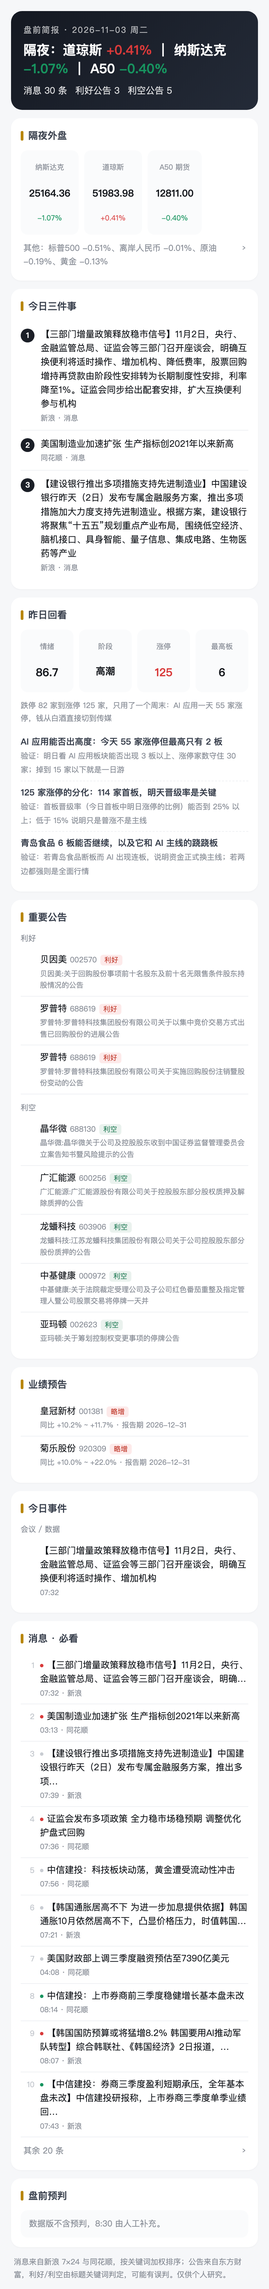
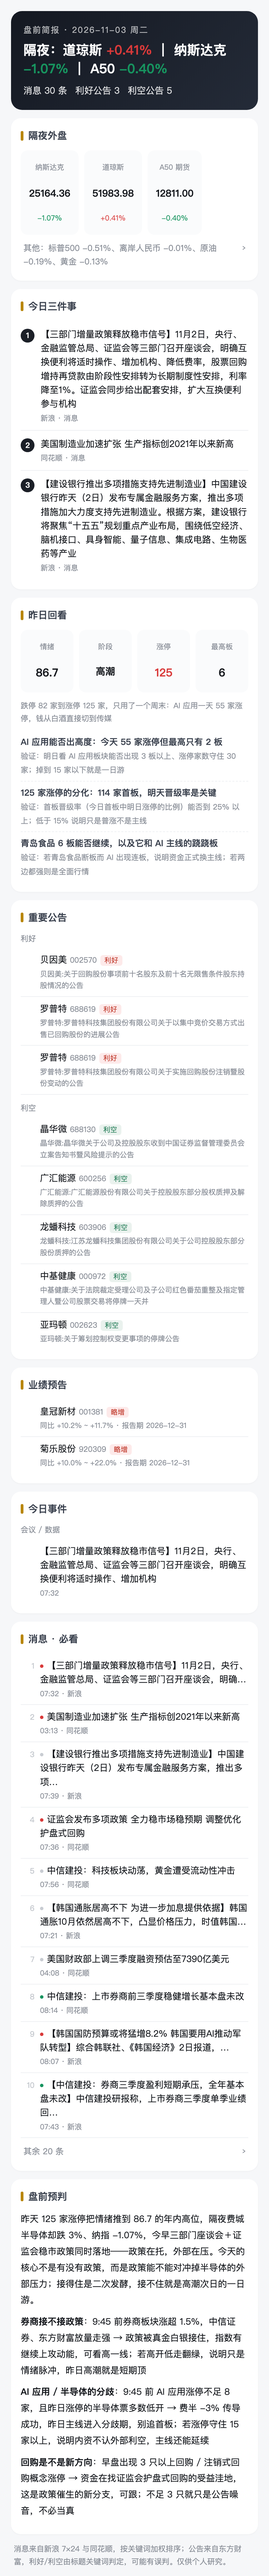
report: 2026-11-02

Changed region(s): [[0.0308, 0.0, 0.9538, 1.0]]

diff --git a/pre/2026-11-03/2026-11-03-盘前.html b/pre/2026-11-03/2026-11-03-盘前.html
@@ -50,4 +50,4 @@ details.more[open]>summary .arw{transform:rotate(90deg)}
 display:flex;align-items:center;justify-content:center;font-weight:700;margin-top:2px}
 .t3 .t{font-size:13px;line-height:1.55;flex:1}
 .t3 .s{font-size:10.5px;color:#8a8f98;margin-top:2px}
-</style><link rel="manifest" href="/a-share-review/manifest.webmanifest"><meta name="theme-color" content="#1b1f27"><meta name="apple-mobile-web-app-capable" content="yes"><meta name="apple-mobile-web-app-status-bar-style" content="black-translucent"><meta name="apple-mobile-web-app-title" content="A股复盘"><link rel="apple-touch-icon" href="/a-share-review/icon-192.png"></head><body><div class="wrap"><div class="hero"><div class="d">盘前简报 · 2026-11-03 周二</div><h1>隔夜：道琼斯 <b class="up">+0.41%</b> ｜ 纳斯达克 <b class="down">-1.07%</b> ｜ A50 <b class="down">-0.40%</b></h1><div class="sum"><span>消息 30 条</span><span>利好公告 3</span><span>利空公告 5</span></div></div><div class="card"><h2>隔夜外盘</h2><div class="ov"><div><div class="n">纳斯达克</div><div class="v">25164.36</div><div class="p down">-1.07%</div></div><div><div class="n">道琼斯</div><div class="v">51983.98</div><div class="p up">+0.41%</div></div><div><div class="n">A50 期货</div><div class="v">12811.00</div><div class="p down">-0.40%</div></div></div><details class="more"><summary><span>其他：标普500 -0.51%、离岸人民币 -0.01%、原油 -0.19%、黄金 -0.13%</span><span class="arw">›</span></summary><div class="ov" style="margin-top:8px"><div><div class="n">标普500</div><div class="v">7541.40</div><div class="p down">-0.51%</div></div><div><div class="n">离岸人民币</div><div class="v">6.65</div><div class="p down">-0.01%</div></div><div><div class="n">原油</div><div class="v">96.27</div><div class="p down">-0.19%</div></div><div><div class="n">黄金</div><div class="v">3964.51</div><div class="p down">-0.13%</div></div></div></details></div><div class="card"><h2>今日三件事</h2><div class="t3"><div class="n">1</div><div><div class="t">【三部门增量政策释放稳市信号】11月2日，央行、金融监管总局、证监会等三部门召开座谈会，明确互换便利将适时操作、增加机构、降低费率，股票回购增持再贷款由阶段性安排转为长期制度性安排，利率降至1%。证监会同步给出配套安排，扩大互换便利参与机构</div><div class="s">新浪 · 消息</div></div></div><div class="t3"><div class="n">2</div><div><div class="t">美国制造业加速扩张 生产指标创2021年以来新高</div><div class="s">同花顺 · 消息</div></div></div><div class="t3"><div class="n">3</div><div><div class="t">【建设银行推出多项措施支持先进制造业】中国建设银行昨天（2日）发布专属金融服务方案，推出多项措施加大力度支持先进制造业。根据方案，建设银行将聚焦“十五五”规划重点产业布局，围绕低空经济、脑机接口、具身智能、量子信息、集成电路、生物医药等产业</div><div class="s">新浪 · 消息</div></div></div></div><div class="card"><h2>昨日回看</h2><div class="kv"><div><div class="n">情绪</div><div class="v">86.7</div></div><div><div class="n">阶段</div><div class="v" style="font-size:14px">高潮</div></div><div><div class="n">涨停</div><div class="v up">125</div></div><div><div class="n">最高板</div><div class="v">6</div></div></div><div class="note" style="margin-bottom:8px">跌停 82 家到涨停 125 家，只用了一个周末：AI 应用一天 55 家涨停，钱从白酒直接切到传媒</div><div class="watch"><b>AI 应用能否出高度：今天 55 家涨停但最高只有 2 板</b><br><span class="note">验证：明日看 AI 应用板块能否出现 3 板以上、涨停家数守住 30 家；掉到 15 家以下就是一日游</span></div><div class="watch"><b>125 家涨停的分化：114 家首板，明天晋级率是关键</b><br><span class="note">验证：首板晋级率（今日首板中明日涨停的比例）能否到 25% 以上；低于 15% 说明只是普涨不是主线</span></div><div class="watch"><b>青岛食品 6 板能否继续，以及它和 AI 主线的跷跷板</b><br><span class="note">验证：若青岛食品断板而 AI 出现连板，说明资金正式换主线；若两边都强则是全面行情</span></div></div><div class="card"><h2>重要公告</h2><div class="note" style="margin-bottom:4px">利好</div><div class="item"><div class="no"></div><div class="b"><div class="t">贝因美 <span class="mut" style="font-size:11px">002570</span><span class="tag tag-good">利好</span></div><div class="m">贝因美:关于回购股份事项前十名股东及前十名无限售条件股东持股情况的公告</div></div></div><div class="item"><div class="no"></div><div class="b"><div class="t">罗普特 <span class="mut" style="font-size:11px">688619</span><span class="tag tag-good">利好</span></div><div class="m">罗普特:罗普特科技集团股份有限公司关于以集中竞价交易方式出售已回购股份的进展公告</div></div></div><div class="item"><div class="no"></div><div class="b"><div class="t">罗普特 <span class="mut" style="font-size:11px">688619</span><span class="tag tag-good">利好</span></div><div class="m">罗普特:罗普特科技集团股份有限公司关于实施回购股份注销暨股份变动的公告</div></div></div><div class="note" style="margin:10px 0 4px">利空</div><div class="item"><div class="no"></div><div class="b"><div class="t">晶华微 <span class="mut" style="font-size:11px">688130</span><span class="tag tag-bad">利空</span></div><div class="m">晶华微:晶华微关于公司及控股股东收到中国证券监督管理委员会立案告知书暨风险提示的公告</div></div></div><div class="item"><div class="no"></div><div class="b"><div class="t">广汇能源 <span class="mut" style="font-size:11px">600256</span><span class="tag tag-bad">利空</span></div><div class="m">广汇能源:广汇能源股份有限公司关于控股股东部分股权质押及解除质押的公告</div></div></div><div class="item"><div class="no"></div><div class="b"><div class="t">龙蟠科技 <span class="mut" style="font-size:11px">603906</span><span class="tag tag-bad">利空</span></div><div class="m">龙蟠科技:江苏龙蟠科技集团股份有限公司关于公司控股股东部分股份质押的公告</div></div></div><div class="item"><div class="no"></div><div class="b"><div class="t">中基健康 <span class="mut" style="font-size:11px">000972</span><span class="tag tag-bad">利空</span></div><div class="m">中基健康:关于法院裁定受理公司及子公司红色番茄重整及指定管理人暨公司股票交易将停牌一天并</div></div></div><div class="item"><div class="no"></div><div class="b"><div class="t">亚玛顿 <span class="mut" style="font-size:11px">002623</span><span class="tag tag-bad">利空</span></div><div class="m">亚玛顿:关于筹划控制权变更事项的停牌公告</div></div></div></div><div class="card"><h2>业绩预告</h2><div class="item"><div class="no"></div><div class="b"><div class="t">皇冠新材 <span class="mut" style="font-size:11px">001381</span><span class="tag tag-good">略增</span></div><div class="m">同比 +10.2% ~ +11.7% · 报告期 2026-12-31</div></div></div><div class="item"><div class="no"></div><div class="b"><div class="t">菊乐股份 <span class="mut" style="font-size:11px">920309</span><span class="tag tag-good">略增</span></div><div class="m">同比 +10.0% ~ +22.0% · 报告期 2026-12-31</div></div></div></div><div class="card"><h2>今日事件</h2><div class="note" style="margin:10px 0 4px">会议 / 数据</div><div class="item"><div class="no"></div><div class="b"><div class="t">【三部门增量政策释放稳市信号】11月2日，央行、金融监管总局、证监会等三部门召开座谈会，明确互换便利将适时操作、增加机构</div><div class="m">07:32</div></div></div></div><div class="card"><h2>消息 · 必看</h2><div class="item"><div class="no">1</div><div class="b"><div class="t"><span class="dot g"></span>【三部门增量政策释放稳市信号】11月2日，央行、金融监管总局、证监会等三部门召开座谈会，明确…</div><div class="m">07:32 · 新浪</div></div></div><div class="item"><div class="no">2</div><div class="b"><div class="t"><span class="dot g"></span>美国制造业加速扩张 生产指标创2021年以来新高</div><div class="m">03:13 · 同花顺</div></div></div><div class="item"><div class="no">3</div><div class="b"><div class="t"><span class="dot n"></span>【建设银行推出多项措施支持先进制造业】中国建设银行昨天（2日）发布专属金融服务方案，推出多项…</div><div class="m">07:39 · 新浪</div></div></div><div class="item"><div class="no">4</div><div class="b"><div class="t"><span class="dot g"></span>证监会发布多项政策 全力稳市场稳预期 调整优化护盘式回购</div><div class="m">07:36 · 同花顺</div></div></div><div class="item"><div class="no">5</div><div class="b"><div class="t"><span class="dot n"></span>中信建投：科技板块动荡，黄金遭受流动性冲击</div><div class="m">07:56 · 同花顺</div></div></div><div class="item"><div class="no">6</div><div class="b"><div class="t"><span class="dot n"></span>【韩国通胀居高不下 为进一步加息提供依据】韩国通胀10月依然居高不下，凸显价格压力，时值韩国…</div><div class="m">07:21 · 新浪</div></div></div><div class="item"><div class="no">7</div><div class="b"><div class="t"><span class="dot n"></span>美国财政部上调三季度融资预估至7390亿美元</div><div class="m">04:08 · 同花顺</div></div></div><div class="item"><div class="no">8</div><div class="b"><div class="t"><span class="dot b2"></span>中信建投：上市券商前三季度稳健增长基本盘未改</div><div class="m">08:14 · 同花顺</div></div></div><div class="item"><div class="no">9</div><div class="b"><div class="t"><span class="dot g"></span>【韩国国防预算或将猛增8.2% 韩国要用AI推动军队转型】综合韩联社、《韩国经济》2日报道，…</div><div class="m">08:07 · 新浪</div></div></div><div class="item"><div class="no">10</div><div class="b"><div class="t"><span class="dot b2"></span>【中信建投：券商三季度盈利短期承压，全年基本盘未改】中信建投研报称，上市券商三季度单季业绩回…</div><div class="m">07:43 · 新浪</div></div></div><details class="more"><summary><span>其余 20 条</span><span class="arw">›</span></summary><div class="item"><div class="no">11</div><div class="b"><div class="t"><span class="dot g"></span>【机构称市场处于反弹孕育期 业绩确定性成配置主线】上周，A股延续震荡走弱态势，算力硬件、半导…</div><div class="m">07:40 · 新浪</div></div></div><div class="item"><div class="no">12</div><div class="b"><div class="t"><span class="dot g"></span>【中信建投：AI需求高景气驱动功率半导体迈向新周期】中信建投研报称，AIDC爆发+新能源车增…</div><div class="m">07:39 · 新浪</div></div></div><div class="item"><div class="no">13</div><div class="b"><div class="t"><span class="dot g"></span>【亿咖通科技与Arm签署合作备忘录】11月2日晚，亿咖通科技控股宣布与Arm签署非约束性合作…</div><div class="m">07:20 · 新浪</div></div></div><div class="item"><div class="no">14</div><div class="b"><div class="t"><span class="dot g"></span>亿咖通科技与Arm签署合作备忘录</div><div class="m">07:18 · 同花顺</div></div></div><div class="item"><div class="no">15</div><div class="b"><div class="t"><span class="dot g"></span>腾讯与万事达卡签署合作备忘录，合作拓展至智能体商业领域</div><div class="m">07:15 · 同花顺</div></div></div><div class="item"><div class="no">16</div><div class="b"><div class="t"><span class="dot n"></span>美股收评：纳指收跌超1% 费城半导体指数跌超3%</div><div class="m">05:01 · 同花顺</div></div></div><div class="item"><div class="no">17</div><div class="b"><div class="t"><span class="dot n"></span>纳斯达克100指数跌幅扩大至1.3%，美股盘初一度上涨将近1.3%</div><div class="m">04:38 · 同花顺</div></div></div><div class="item"><div class="no">18</div><div class="b"><div class="t"><span class="dot n"></span>费城半导体指数日内跌3%</div><div class="m">03:48 · 同花顺</div></div></div><div class="item"><div class="no">19</div><div class="b"><div class="t"><span class="dot g"></span>【114家公司10月以来披露在手订单充裕 9家公司同步推出回购计划】进入10月份以来，受A股…</div><div class="m">07:58 · 新浪</div></div></div><div class="item"><div class="no">20</div><div class="b"><div class="t"><span class="dot g"></span>【秋假持续激发文旅市场活力 多条消费赛道多点开花】进入秋季，文旅市场淡季不淡。多地秋假持续扩…</div><div class="m">07:52 · 新浪</div></div></div><div class="item"><div class="no">21</div><div class="b"><div class="t"><span class="dot g"></span>【年内回购规模逼近去年全年 注销式回购持续放量】Wind数据显示，截至10月31日晚，A股6…</div><div class="m">07:42 · 新浪</div></div></div><div class="item"><div class="no">22</div><div class="b"><div class="t"><span class="dot g"></span>卡塔尔调解人员再赴德黑兰 将就潜在的美伊协议进行会谈</div><div class="m">04:04 · 同花顺</div></div></div><div class="item"><div class="no">23</div><div class="b"><div class="t"><span class="dot n"></span>【国内首套超深竖井智能焊接成套装备投用 效率提升超65%】11月3日，我国首套专用于超深竖井…</div><div class="m">08:18 · 新浪</div></div></div><div class="item"><div class="no">24</div><div class="b"><div class="t"><span class="dot n"></span>据报道，Salesforce以27亿美元收购初创公司Cresta，后者一家成立九年的AI驱动…</div><div class="m">08:14 · 新浪</div></div></div><div class="item"><div class="no">25</div><div class="b"><div class="t"><span class="dot n"></span>韩国综合股价指数跌幅扩大至3.1%。 SK海力士领跌芯片股，SK海力士股价早盘下跌4.5%，…</div><div class="m">08:05 · 新浪</div></div></div><div class="item"><div class="no">26</div><div class="b"><div class="t"><span class="dot n"></span>OPENAI：在过去一年中，代码库（Monorepo）的规模和对它的要求都有所增加。</div><div class="m">07:50 · 新浪</div></div></div><div class="item"><div class="no">27</div><div class="b"><div class="t"><span class="dot n"></span>【中信建投：北美CSP资本开支维持高强度，AI商业化驱动云业务加速增长】中信建投研报称，北美…</div><div class="m">07:39 · 新浪</div></div></div><div class="item"><div class="no">28</div><div class="b"><div class="t"><span class="dot n"></span>OpenAI：丹·德里斯科尔将就先进人工智能在国家安全和网络安全领域的应用提供咨询，重点关注…</div><div class="m">07:33 · 新浪</div></div></div><div class="item"><div class="no">29</div><div class="b"><div class="t"><span class="dot n"></span>【AI算力驱动PCB行业呈现结构性高景气 全链加码高端产能】随着2026年三季报披露收官，P…</div><div class="m">07:33 · 新浪</div></div></div><div class="item"><div class="no">30</div><div class="b"><div class="t"><span class="dot n"></span>OpenAI：任命丹·德里斯科尔为国家安全现代化高级顾问。</div><div class="m">07:32 · 新浪</div></div></div></details></div><div class="card"><h2>盘前预判</h2><div class="empty">数据版不含预判，8:30 由人工补充。</div></div><div class="note" style="padding:0 4px">消息来自新浪 7×24 与同花顺，按关键词加权排序；公告来自东方财富，利好/利空由标题关键词判定，可能有误判。仅供个人研究。</div></div></body></html>
+</style><link rel="manifest" href="/a-share-review/manifest.webmanifest"><meta name="theme-color" content="#1b1f27"><meta name="apple-mobile-web-app-capable" content="yes"><meta name="apple-mobile-web-app-status-bar-style" content="black-translucent"><meta name="apple-mobile-web-app-title" content="A股复盘"><link rel="apple-touch-icon" href="/a-share-review/icon-192.png"></head><body><div class="wrap"><div class="hero"><div class="d">盘前简报 · 2026-11-03 周二</div><h1>隔夜：道琼斯 <b class="up">+0.41%</b> ｜ 纳斯达克 <b class="down">-1.07%</b> ｜ A50 <b class="down">-0.40%</b></h1><div class="sum"><span>消息 30 条</span><span>利好公告 3</span><span>利空公告 5</span></div></div><div class="card"><h2>隔夜外盘</h2><div class="ov"><div><div class="n">纳斯达克</div><div class="v">25164.36</div><div class="p down">-1.07%</div></div><div><div class="n">道琼斯</div><div class="v">51983.98</div><div class="p up">+0.41%</div></div><div><div class="n">A50 期货</div><div class="v">12811.00</div><div class="p down">-0.40%</div></div></div><details class="more"><summary><span>其他：标普500 -0.51%、离岸人民币 -0.01%、原油 -0.19%、黄金 -0.13%</span><span class="arw">›</span></summary><div class="ov" style="margin-top:8px"><div><div class="n">标普500</div><div class="v">7541.40</div><div class="p down">-0.51%</div></div><div><div class="n">离岸人民币</div><div class="v">6.65</div><div class="p down">-0.01%</div></div><div><div class="n">原油</div><div class="v">96.27</div><div class="p down">-0.19%</div></div><div><div class="n">黄金</div><div class="v">3964.51</div><div class="p down">-0.13%</div></div></div></details></div><div class="card"><h2>今日三件事</h2><div class="t3"><div class="n">1</div><div><div class="t">【三部门增量政策释放稳市信号】11月2日，央行、金融监管总局、证监会等三部门召开座谈会，明确互换便利将适时操作、增加机构、降低费率，股票回购增持再贷款由阶段性安排转为长期制度性安排，利率降至1%。证监会同步给出配套安排，扩大互换便利参与机构</div><div class="s">新浪 · 消息</div></div></div><div class="t3"><div class="n">2</div><div><div class="t">美国制造业加速扩张 生产指标创2021年以来新高</div><div class="s">同花顺 · 消息</div></div></div><div class="t3"><div class="n">3</div><div><div class="t">【建设银行推出多项措施支持先进制造业】中国建设银行昨天（2日）发布专属金融服务方案，推出多项措施加大力度支持先进制造业。根据方案，建设银行将聚焦“十五五”规划重点产业布局，围绕低空经济、脑机接口、具身智能、量子信息、集成电路、生物医药等产业</div><div class="s">新浪 · 消息</div></div></div></div><div class="card"><h2>昨日回看</h2><div class="kv"><div><div class="n">情绪</div><div class="v">86.7</div></div><div><div class="n">阶段</div><div class="v" style="font-size:14px">高潮</div></div><div><div class="n">涨停</div><div class="v up">125</div></div><div><div class="n">最高板</div><div class="v">6</div></div></div><div class="note" style="margin-bottom:8px">跌停 82 家到涨停 125 家，只用了一个周末：AI 应用一天 55 家涨停，钱从白酒直接切到传媒</div><div class="watch"><b>AI 应用能否出高度：今天 55 家涨停但最高只有 2 板</b><br><span class="note">验证：明日看 AI 应用板块能否出现 3 板以上、涨停家数守住 30 家；掉到 15 家以下就是一日游</span></div><div class="watch"><b>125 家涨停的分化：114 家首板，明天晋级率是关键</b><br><span class="note">验证：首板晋级率（今日首板中明日涨停的比例）能否到 25% 以上；低于 15% 说明只是普涨不是主线</span></div><div class="watch"><b>青岛食品 6 板能否继续，以及它和 AI 主线的跷跷板</b><br><span class="note">验证：若青岛食品断板而 AI 出现连板，说明资金正式换主线；若两边都强则是全面行情</span></div></div><div class="card"><h2>重要公告</h2><div class="note" style="margin-bottom:4px">利好</div><div class="item"><div class="no"></div><div class="b"><div class="t">贝因美 <span class="mut" style="font-size:11px">002570</span><span class="tag tag-good">利好</span></div><div class="m">贝因美:关于回购股份事项前十名股东及前十名无限售条件股东持股情况的公告</div></div></div><div class="item"><div class="no"></div><div class="b"><div class="t">罗普特 <span class="mut" style="font-size:11px">688619</span><span class="tag tag-good">利好</span></div><div class="m">罗普特:罗普特科技集团股份有限公司关于以集中竞价交易方式出售已回购股份的进展公告</div></div></div><div class="item"><div class="no"></div><div class="b"><div class="t">罗普特 <span class="mut" style="font-size:11px">688619</span><span class="tag tag-good">利好</span></div><div class="m">罗普特:罗普特科技集团股份有限公司关于实施回购股份注销暨股份变动的公告</div></div></div><div class="note" style="margin:10px 0 4px">利空</div><div class="item"><div class="no"></div><div class="b"><div class="t">晶华微 <span class="mut" style="font-size:11px">688130</span><span class="tag tag-bad">利空</span></div><div class="m">晶华微:晶华微关于公司及控股股东收到中国证券监督管理委员会立案告知书暨风险提示的公告</div></div></div><div class="item"><div class="no"></div><div class="b"><div class="t">广汇能源 <span class="mut" style="font-size:11px">600256</span><span class="tag tag-bad">利空</span></div><div class="m">广汇能源:广汇能源股份有限公司关于控股股东部分股权质押及解除质押的公告</div></div></div><div class="item"><div class="no"></div><div class="b"><div class="t">龙蟠科技 <span class="mut" style="font-size:11px">603906</span><span class="tag tag-bad">利空</span></div><div class="m">龙蟠科技:江苏龙蟠科技集团股份有限公司关于公司控股股东部分股份质押的公告</div></div></div><div class="item"><div class="no"></div><div class="b"><div class="t">中基健康 <span class="mut" style="font-size:11px">000972</span><span class="tag tag-bad">利空</span></div><div class="m">中基健康:关于法院裁定受理公司及子公司红色番茄重整及指定管理人暨公司股票交易将停牌一天并</div></div></div><div class="item"><div class="no"></div><div class="b"><div class="t">亚玛顿 <span class="mut" style="font-size:11px">002623</span><span class="tag tag-bad">利空</span></div><div class="m">亚玛顿:关于筹划控制权变更事项的停牌公告</div></div></div></div><div class="card"><h2>业绩预告</h2><div class="item"><div class="no"></div><div class="b"><div class="t">皇冠新材 <span class="mut" style="font-size:11px">001381</span><span class="tag tag-good">略增</span></div><div class="m">同比 +10.2% ~ +11.7% · 报告期 2026-12-31</div></div></div><div class="item"><div class="no"></div><div class="b"><div class="t">菊乐股份 <span class="mut" style="font-size:11px">920309</span><span class="tag tag-good">略增</span></div><div class="m">同比 +10.0% ~ +22.0% · 报告期 2026-12-31</div></div></div></div><div class="card"><h2>今日事件</h2><div class="note" style="margin:10px 0 4px">会议 / 数据</div><div class="item"><div class="no"></div><div class="b"><div class="t">【三部门增量政策释放稳市信号】11月2日，央行、金融监管总局、证监会等三部门召开座谈会，明确互换便利将适时操作、增加机构</div><div class="m">07:32</div></div></div></div><div class="card"><h2>消息 · 必看</h2><div class="item"><div class="no">1</div><div class="b"><div class="t"><span class="dot g"></span>【三部门增量政策释放稳市信号】11月2日，央行、金融监管总局、证监会等三部门召开座谈会，明确…</div><div class="m">07:32 · 新浪</div></div></div><div class="item"><div class="no">2</div><div class="b"><div class="t"><span class="dot g"></span>美国制造业加速扩张 生产指标创2021年以来新高</div><div class="m">03:13 · 同花顺</div></div></div><div class="item"><div class="no">3</div><div class="b"><div class="t"><span class="dot n"></span>【建设银行推出多项措施支持先进制造业】中国建设银行昨天（2日）发布专属金融服务方案，推出多项…</div><div class="m">07:39 · 新浪</div></div></div><div class="item"><div class="no">4</div><div class="b"><div class="t"><span class="dot g"></span>证监会发布多项政策 全力稳市场稳预期 调整优化护盘式回购</div><div class="m">07:36 · 同花顺</div></div></div><div class="item"><div class="no">5</div><div class="b"><div class="t"><span class="dot n"></span>中信建投：科技板块动荡，黄金遭受流动性冲击</div><div class="m">07:56 · 同花顺</div></div></div><div class="item"><div class="no">6</div><div class="b"><div class="t"><span class="dot n"></span>【韩国通胀居高不下 为进一步加息提供依据】韩国通胀10月依然居高不下，凸显价格压力，时值韩国…</div><div class="m">07:21 · 新浪</div></div></div><div class="item"><div class="no">7</div><div class="b"><div class="t"><span class="dot n"></span>美国财政部上调三季度融资预估至7390亿美元</div><div class="m">04:08 · 同花顺</div></div></div><div class="item"><div class="no">8</div><div class="b"><div class="t"><span class="dot b2"></span>中信建投：上市券商前三季度稳健增长基本盘未改</div><div class="m">08:14 · 同花顺</div></div></div><div class="item"><div class="no">9</div><div class="b"><div class="t"><span class="dot g"></span>【韩国国防预算或将猛增8.2% 韩国要用AI推动军队转型】综合韩联社、《韩国经济》2日报道，…</div><div class="m">08:07 · 新浪</div></div></div><div class="item"><div class="no">10</div><div class="b"><div class="t"><span class="dot b2"></span>【中信建投：券商三季度盈利短期承压，全年基本盘未改】中信建投研报称，上市券商三季度单季业绩回…</div><div class="m">07:43 · 新浪</div></div></div><details class="more"><summary><span>其余 20 条</span><span class="arw">›</span></summary><div class="item"><div class="no">11</div><div class="b"><div class="t"><span class="dot g"></span>【机构称市场处于反弹孕育期 业绩确定性成配置主线】上周，A股延续震荡走弱态势，算力硬件、半导…</div><div class="m">07:40 · 新浪</div></div></div><div class="item"><div class="no">12</div><div class="b"><div class="t"><span class="dot g"></span>【中信建投：AI需求高景气驱动功率半导体迈向新周期】中信建投研报称，AIDC爆发+新能源车增…</div><div class="m">07:39 · 新浪</div></div></div><div class="item"><div class="no">13</div><div class="b"><div class="t"><span class="dot g"></span>【亿咖通科技与Arm签署合作备忘录】11月2日晚，亿咖通科技控股宣布与Arm签署非约束性合作…</div><div class="m">07:20 · 新浪</div></div></div><div class="item"><div class="no">14</div><div class="b"><div class="t"><span class="dot g"></span>亿咖通科技与Arm签署合作备忘录</div><div class="m">07:18 · 同花顺</div></div></div><div class="item"><div class="no">15</div><div class="b"><div class="t"><span class="dot g"></span>腾讯与万事达卡签署合作备忘录，合作拓展至智能体商业领域</div><div class="m">07:15 · 同花顺</div></div></div><div class="item"><div class="no">16</div><div class="b"><div class="t"><span class="dot n"></span>美股收评：纳指收跌超1% 费城半导体指数跌超3%</div><div class="m">05:01 · 同花顺</div></div></div><div class="item"><div class="no">17</div><div class="b"><div class="t"><span class="dot n"></span>纳斯达克100指数跌幅扩大至1.3%，美股盘初一度上涨将近1.3%</div><div class="m">04:38 · 同花顺</div></div></div><div class="item"><div class="no">18</div><div class="b"><div class="t"><span class="dot n"></span>费城半导体指数日内跌3%</div><div class="m">03:48 · 同花顺</div></div></div><div class="item"><div class="no">19</div><div class="b"><div class="t"><span class="dot g"></span>【114家公司10月以来披露在手订单充裕 9家公司同步推出回购计划】进入10月份以来，受A股…</div><div class="m">07:58 · 新浪</div></div></div><div class="item"><div class="no">20</div><div class="b"><div class="t"><span class="dot g"></span>【秋假持续激发文旅市场活力 多条消费赛道多点开花】进入秋季，文旅市场淡季不淡。多地秋假持续扩…</div><div class="m">07:52 · 新浪</div></div></div><div class="item"><div class="no">21</div><div class="b"><div class="t"><span class="dot g"></span>【年内回购规模逼近去年全年 注销式回购持续放量】Wind数据显示，截至10月31日晚，A股6…</div><div class="m">07:42 · 新浪</div></div></div><div class="item"><div class="no">22</div><div class="b"><div class="t"><span class="dot g"></span>卡塔尔调解人员再赴德黑兰 将就潜在的美伊协议进行会谈</div><div class="m">04:04 · 同花顺</div></div></div><div class="item"><div class="no">23</div><div class="b"><div class="t"><span class="dot n"></span>【国内首套超深竖井智能焊接成套装备投用 效率提升超65%】11月3日，我国首套专用于超深竖井…</div><div class="m">08:18 · 新浪</div></div></div><div class="item"><div class="no">24</div><div class="b"><div class="t"><span class="dot n"></span>据报道，Salesforce以27亿美元收购初创公司Cresta，后者一家成立九年的AI驱动…</div><div class="m">08:14 · 新浪</div></div></div><div class="item"><div class="no">25</div><div class="b"><div class="t"><span class="dot n"></span>韩国综合股价指数跌幅扩大至3.1%。 SK海力士领跌芯片股，SK海力士股价早盘下跌4.5%，…</div><div class="m">08:05 · 新浪</div></div></div><div class="item"><div class="no">26</div><div class="b"><div class="t"><span class="dot n"></span>OPENAI：在过去一年中，代码库（Monorepo）的规模和对它的要求都有所增加。</div><div class="m">07:50 · 新浪</div></div></div><div class="item"><div class="no">27</div><div class="b"><div class="t"><span class="dot n"></span>【中信建投：北美CSP资本开支维持高强度，AI商业化驱动云业务加速增长】中信建投研报称，北美…</div><div class="m">07:39 · 新浪</div></div></div><div class="item"><div class="no">28</div><div class="b"><div class="t"><span class="dot n"></span>OpenAI：丹·德里斯科尔将就先进人工智能在国家安全和网络安全领域的应用提供咨询，重点关注…</div><div class="m">07:33 · 新浪</div></div></div><div class="item"><div class="no">29</div><div class="b"><div class="t"><span class="dot n"></span>【AI算力驱动PCB行业呈现结构性高景气 全链加码高端产能】随着2026年三季报披露收官，P…</div><div class="m">07:33 · 新浪</div></div></div><div class="item"><div class="no">30</div><div class="b"><div class="t"><span class="dot n"></span>OpenAI：任命丹·德里斯科尔为国家安全现代化高级顾问。</div><div class="m">07:32 · 新浪</div></div></div></details></div><div class="card"><h2>盘前预判</h2><div class="jd"><p>昨天 125 家涨停把情绪推到 86.7 的年内高位，隔夜费城半导体却跌 3%、纳指 -1.07%，今早三部门座谈会＋证监会稳市政策同时落地——政策在托，外部在压。今天的核心不是有没有政策，而是政策能不能对冲掉半导体的外部压力；接得住是二次发酵，接不住就是高潮次日的一日游。</p><p><b>券商接不接政策</b>：9:45 前券商板块涨超 1.5%，中信证券、东方财富放量走强 → 政策被真金白银接住，指数有继续上攻动能，可看高一线；若高开低走翻绿，说明只是情绪脉冲，昨日高潮就是短期顶</p><p><b>AI 应用 / 半导体的分歧</b>：9:45 前 AI 应用涨停不足 8 家，且昨日涨停的半导体票多数低开 → 费半 -3% 传导成功，昨日主线进入分歧期，别追首板；若涨停守住 15 家以上，说明内资不认外部利空，主线还能延续</p><p><b>回购是不是新方向</b>：早盘出现 3 只以上回购 / 注销式回购概念涨停 → 资金在找证监会护盘式回购的受益洼地，这是政策催生的新分支，可跟；不足 3 只就只是公告噪音，不必当真</p></div></div><div class="note" style="padding:0 4px">消息来自新浪 7×24 与同花顺，按关键词加权排序；公告来自东方财富，利好/利空由标题关键词判定，可能有误判。仅供个人研究。</div></div></body></html>

diff --git a/pre/index.html b/pre/index.html
@@ -47,6 +47,6 @@ padding-bottom:env(safe-area-inset-bottom)}
 .tabbar a.on::after{content:"";display:block;width:18px;height:2.5px;border-radius:2px;background:var(--gold);margin:5px auto 0}
 </style><link rel="manifest" href="/a-share-review/manifest.webmanifest"><meta name="theme-color" content="#1b1f27"><meta name="apple-mobile-web-app-capable" content="yes"><meta name="apple-mobile-web-app-status-bar-style" content="black-translucent"><meta name="apple-mobile-web-app-title" content="A股复盘"><link rel="apple-touch-icon" href="/a-share-review/icon-192.png"></head><body><div class="wrap">
 <div class="head"><h1>盘前简报</h1><div class="sub">共 2 篇 · 交易日 08:20</div></div>
-<a class="hero" href="2026-11-03/2026-11-03-盘前.html?v=1793665209"><div class="ht">最新盘前 · 2026-11-03</div><div class="hrow"><div><div class="hn">纳指</div><div class="hv down">-1.07%</div></div><div><div class="hn">道指</div><div class="hv up">+0.41%</div></div><div><div class="hn">A50</div><div class="hv down">-0.40%</div></div><div><div class="hn">消息</div><div class="hv">30</div></div></div><div class="hb">点开看完整盘前简报 →</div></a>
-<details class="month" open><summary><span><b>2026-11</b>　2 篇</span><span class="arw">›</span></summary><div class="list"><a class="row" href="2026-11-03/2026-11-03-盘前.html?v=1793665209"><div class="rl"><div class="rd">11-03</div><div class="rw">周二</div></div><div class="rm"><span class="k down">纳指 -1.07%</span><span class="k2">30 条消息</span></div></a><a class="row" href="2026-11-02/2026-11-02-盘前.html?v=1793613369"><div class="rl"><div class="rd">11-02</div><div class="rw">周一</div></div><div class="rm"><span class="k down">纳指 -2.86%</span><span class="k2">30 条消息</span></div></a></div></details>
+<a class="hero" href="2026-11-03/2026-11-03-盘前.html?v=1793665822"><div class="ht">最新盘前 · 2026-11-03</div><div class="hrow"><div><div class="hn">纳指</div><div class="hv down">-1.07%</div></div><div><div class="hn">道指</div><div class="hv up">+0.41%</div></div><div><div class="hn">A50</div><div class="hv down">-0.40%</div></div><div><div class="hn">消息</div><div class="hv">30</div></div></div><div class="hj">昨天 125 家涨停把情绪推到 86.7 的年内高位，隔夜费城半导体却跌 3%、纳指 -1.07%，今早三部门座谈会＋证</div><div class="hb">点开看完整盘前简报 →</div></a>
+<details class="month" open><summary><span><b>2026-11</b>　2 篇</span><span class="arw">›</span></summary><div class="list"><a class="row" href="2026-11-03/2026-11-03-盘前.html?v=1793665822"><div class="rl"><div class="rd">11-03</div><div class="rw">周二</div></div><div class="rm"><span class="k down">纳指 -1.07%</span><span class="k2">30 条消息</span><span class="tag2">预判</span></div></a><a class="row" href="2026-11-02/2026-11-02-盘前.html?v=1793613369"><div class="rl"><div class="rd">11-02</div><div class="rw">周一</div></div><div class="rm"><span class="k down">纳指 -2.86%</span><span class="k2">30 条消息</span></div></a></div></details>
 </div><div class="tabbar"><a href="../index.html">每日复盘</a><a href="index.html" class="on">盘前简报</a><a href="../earn/index.html">业绩追踪</a></div></body></html>

diff --git a/index.html b/index.html
@@ -116,7 +116,7 @@ padding-bottom:env(safe-area-inset-bottom)}
   </div>
 </a></div></details>
 <div class="foot">数据与判断仅供个人研究，不构成投资建议<br>
-生成于 2026-11-03 08:20</div>
+生成于 2026-11-03 08:30</div>
 <div class="tabbar"><a href="index.html" class="on">每日复盘</a><a href="pre/index.html">盘前简报</a><a href="earn/index.html">业绩追踪</a></div>
 </div>
 <script>

diff --git a/pre/2026-11-03/2026-11-03-盘前.md b/pre/2026-11-03/2026-11-03-盘前.md
@@ -81,4 +81,8 @@
 
 ## 盘前预判
 
-> 8:30 由人工补充（数据版不含预判）。
+昨天 125 家涨停把情绪推到 86.7 的年内高位，隔夜费城半导体却跌 3%、纳指 -1.07%，今早三部门座谈会＋证监会稳市政策同时落地——政策在托，外部在压。今天的核心不是有没有政策，而是政策能不能对冲掉半导体的外部压力；接得住是二次发酵，接不住就是高潮次日的一日游。
+
+- **券商接不接政策**：9:45 前券商板块涨超 1.5%，中信证券、东方财富放量走强 → 政策被真金白银接住，指数有继续上攻动能，可看高一线；若高开低走翻绿，说明只是情绪脉冲，昨日高潮就是短期顶
+- **AI 应用 / 半导体的分歧**：9:45 前 AI 应用涨停不足 8 家，且昨日涨停的半导体票多数低开 → 费半 -3% 传导成功，昨日主线进入分歧期，别追首板；若涨停守住 15 家以上，说明内资不认外部利空，主线还能延续
+- **回购是不是新方向**：早盘出现 3 只以上回购 / 注销式回购概念涨停 → 资金在找证监会护盘式回购的受益洼地，这是政策催生的新分支，可跟；不足 3 只就只是公告噪音，不必当真
